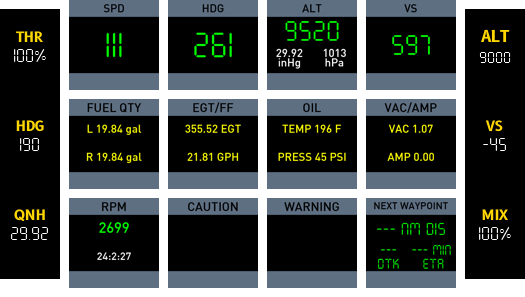
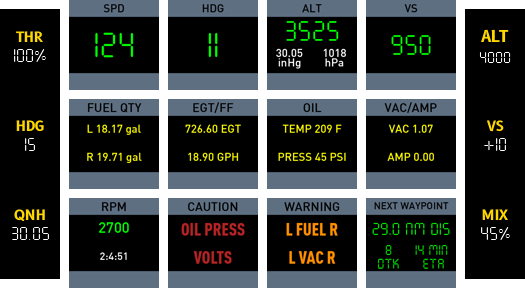
Updates to main README

diff --git a/README.md b/README.md
@@ -6,8 +6,19 @@ Important: New config currently requires this experimental build of [cockpitdeck
 Documentation: [Cockpitdecks Configs Docs](http://dlicudi.github.io/cockpitdecks-configs/)
 
 ## Aircraft
-- Cessna 172 SP (Laminar Research)
-- Beechcraft Baron 58 (Laminar Research)
+- [x] Cessna 172 SP (Laminar Research)
+- [x] Cirrus SR22 (Laminar Research)
+- [ ] Beechcraft Baron 58 (Laminar Research)
+- [ ] Robin DR401 (Aerobask)
+- [ ] Lancair Evolution (Laminar Research)
+
+## Examples
+
+### Home
+![Home](./docs/assets/images/cirrus-sr22/home.png)
+
+### Primary Flight Instruments
+![PFI](./docs/assets/images/cirrus-sr22/pfi.png)
 
 
 ## Notes on long press buttons and helper plugin
